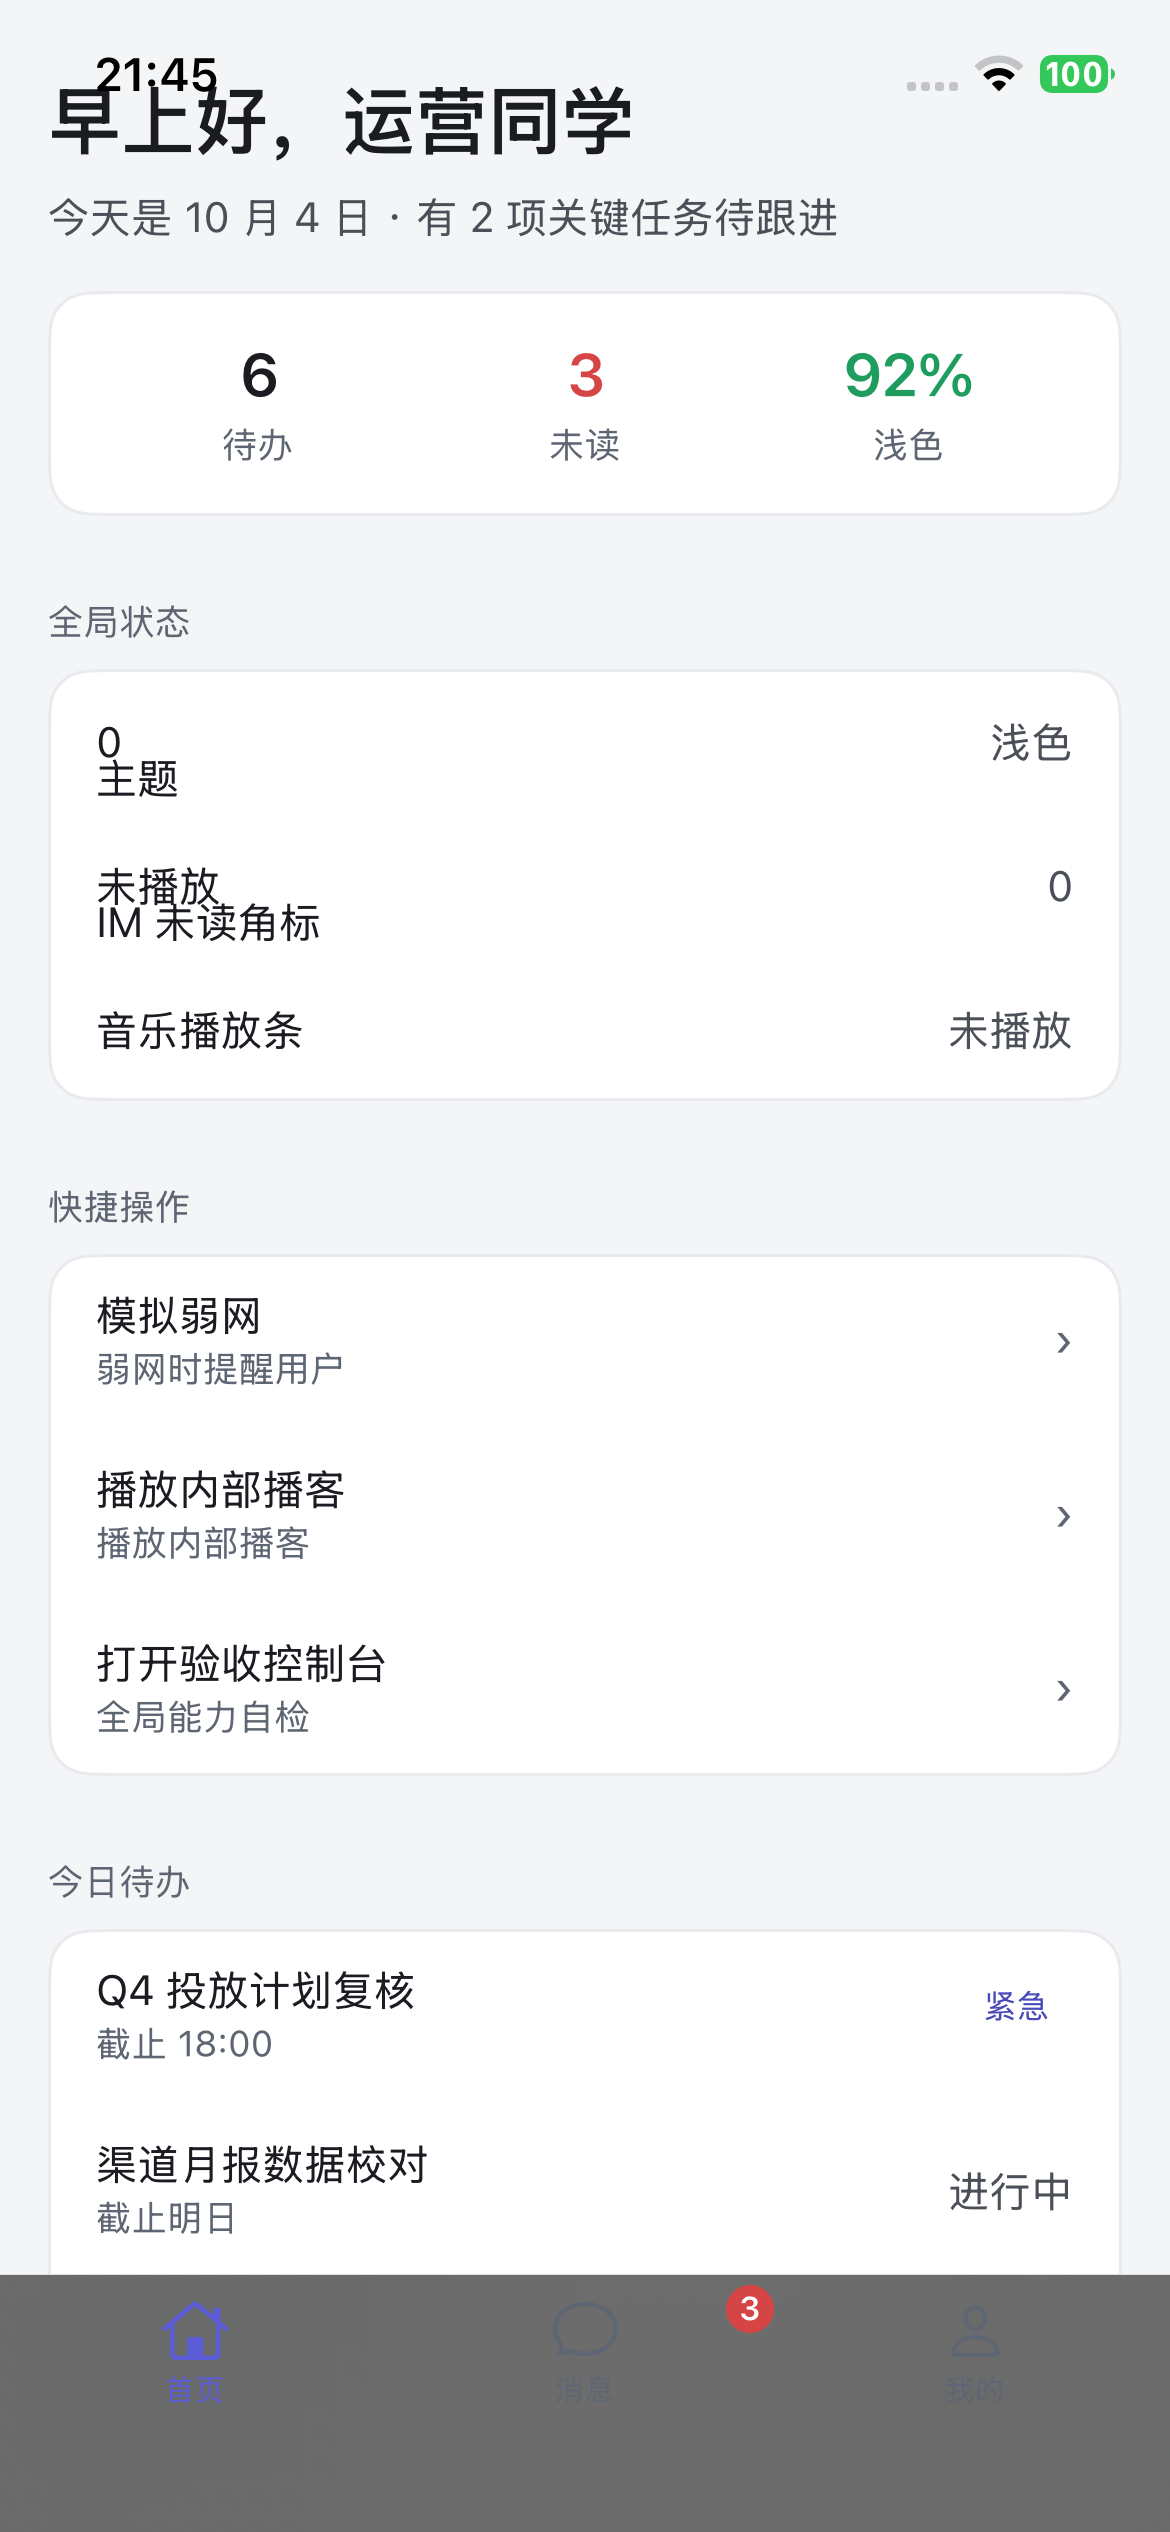
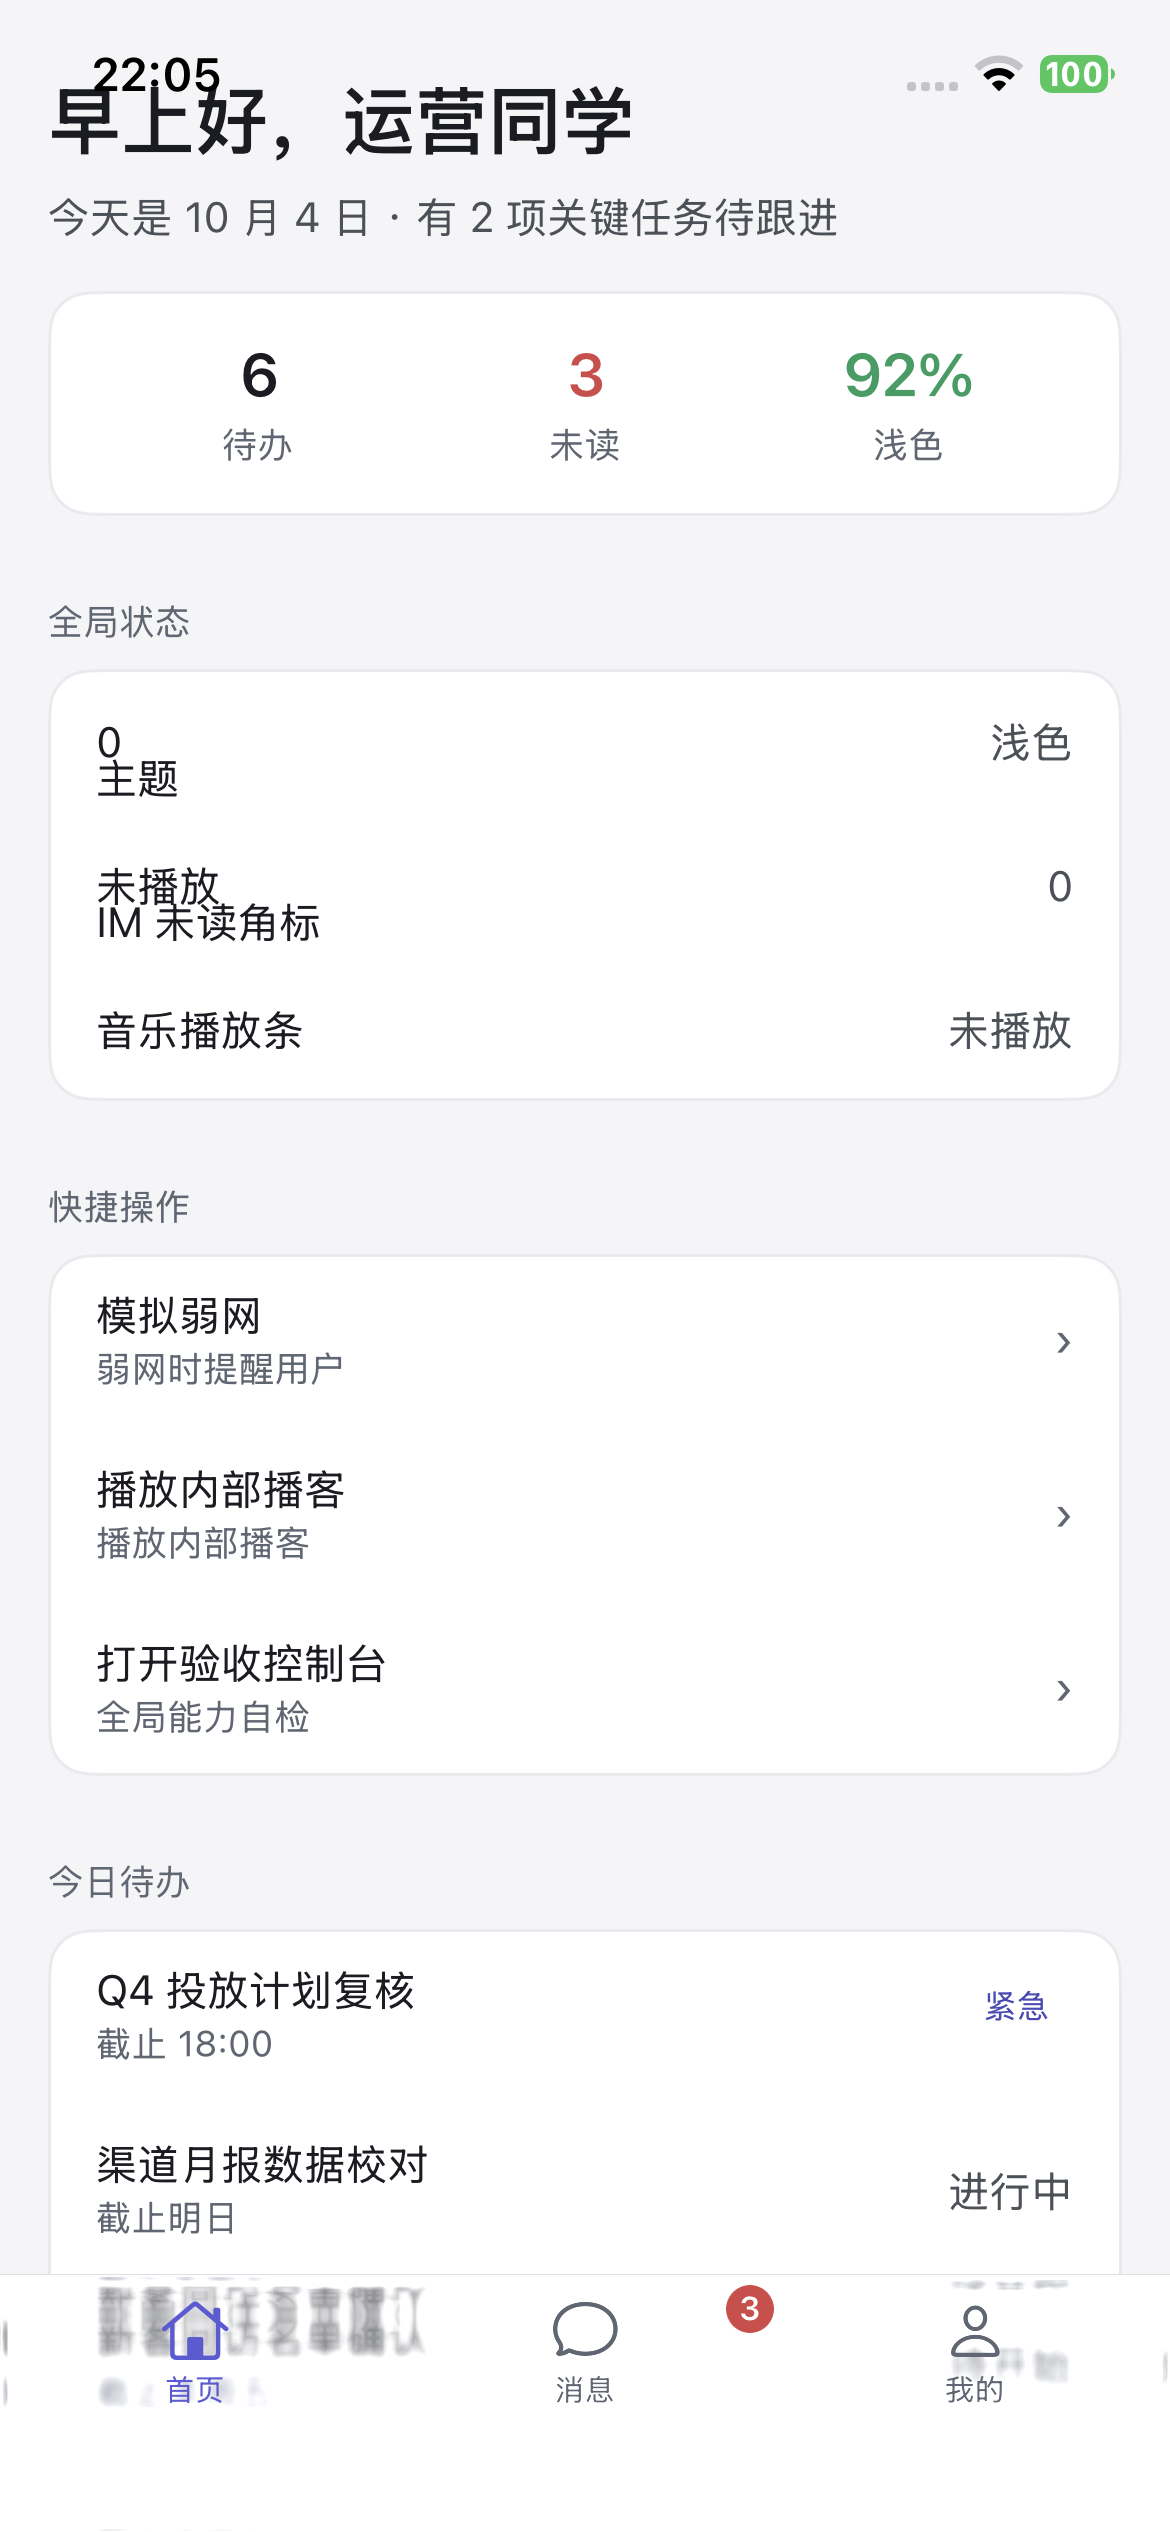
fix(glass): iOS Liquid Glass 档位 regular→clear——修正'带底色/磨砂'（非形态问题）
用户真机对比系统 Photos 后指出：'根本不是形态问题，iOS 系统自带的液态玻璃是没有任何背景色的，
真正的液态透明，我们的明显不是'。★根因 = **UIGlassEffect 档位用错**：
- .regular = 自适应档，**带较实的填充底色**（看着像磨砂面板 = 之前的观感）；
- .clear = **真·清透液态玻璃**（无底色，系统 Photos/Music tab 栏那种）。
改 .clear 后：tab 栏无底色填充，背后内容（待办卡片文字）清晰透出、仅被模糊——对齐系统质感。

diff --git a/hosts/ios/ProteusHost/runtime/tab-chrome.swift b/hosts/ios/ProteusHost/runtime/tab-chrome.swift
@@ -141,8 +141,10 @@ final class ProteusTabChrome {
             let tintColor: UIColor? = (glass["tint"] as? String).flatMap { Self.cssColor($0) }
             if #available(iOS 26.0, *) {
                 // ★Liquid Glass（系统材质）：interactive（tab 栏响应触摸）。
-                //   ★不叠 tint——系统 Liquid Glass 栏默认**清透**（tint 会令其发闷、离系统质感远）。
-                let ge = UIGlassEffect(style: .regular)
+                //   ★★★档位 = **`.clear`（真·液态透明）**——非 `.regular`。`.regular` 是"自适应档"，
+                //     带较实的填充底色（看着像磨砂面板）；`.clear` 才是系统那种**无底色的通透液态玻璃**。
+                //   （用户真机对比系统 Photos/Music 后指出"没有任何背景色/真正液态透明"——档位用错。）
+                let ge = UIGlassEffect(style: .clear)
                 ge.isInteractive = true
                 let gv = UIVisualEffectView(effect: ge)
                 gv.frame = bar.bounds
